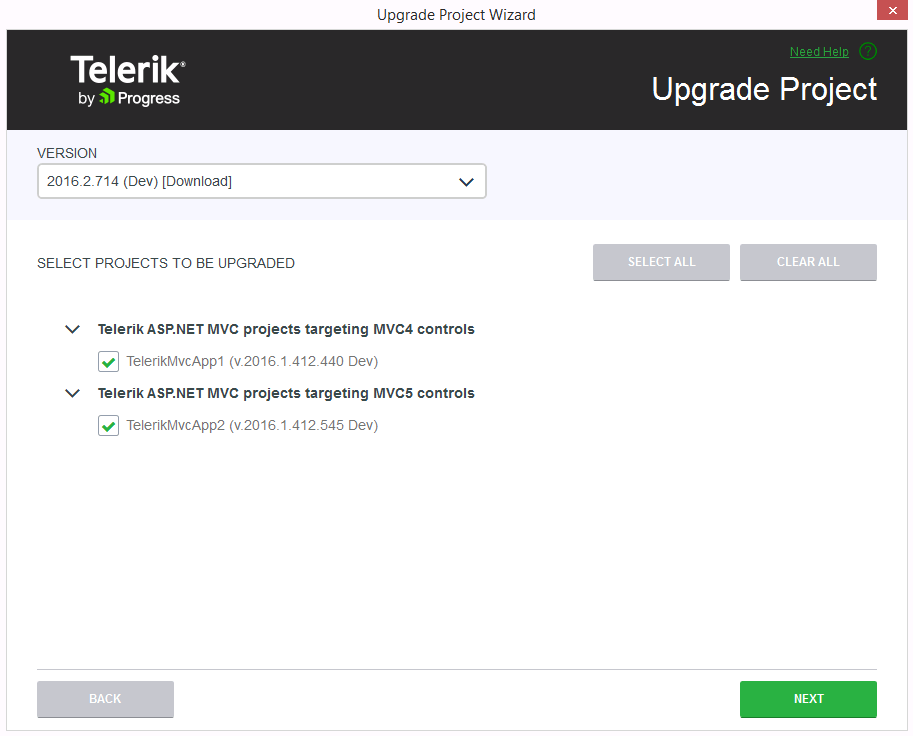
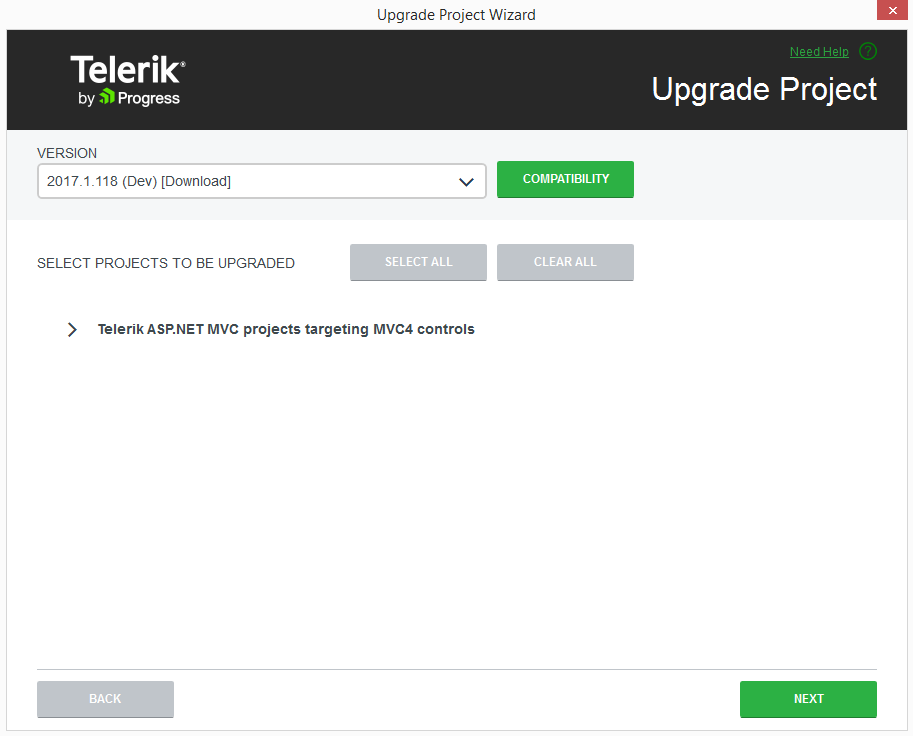
Updated Upgrade wizard screenshot. Added description for API Analyzer (Compatibility) button.

diff --git a/docs-aspnet-mvc/vs-integration/upgrade-wizard.md b/docs-aspnet-mvc/vs-integration/upgrade-wizard.md
@@ -34,7 +34,7 @@ The **Information Page** of the **Upgrade Project Wizard** describes the files a
 
 On the next page, the Wizard lists all projects from the solution that use Telerik UI for ASP.NET MVC. This enables you to choose the projects that will be updated and the version to which they will be upgraded.
 
-It is recommended to upgrade all projects to the selected version.
+It is recommended to upgrade all projects to the selected version. The Compatibility button will invoke the [Upgrade API Analyzer tool](http://docs.telerik.com/aspnet-mvc/vs-integration/upgrade-api-analyzer):
 
 > **Important**
 >
